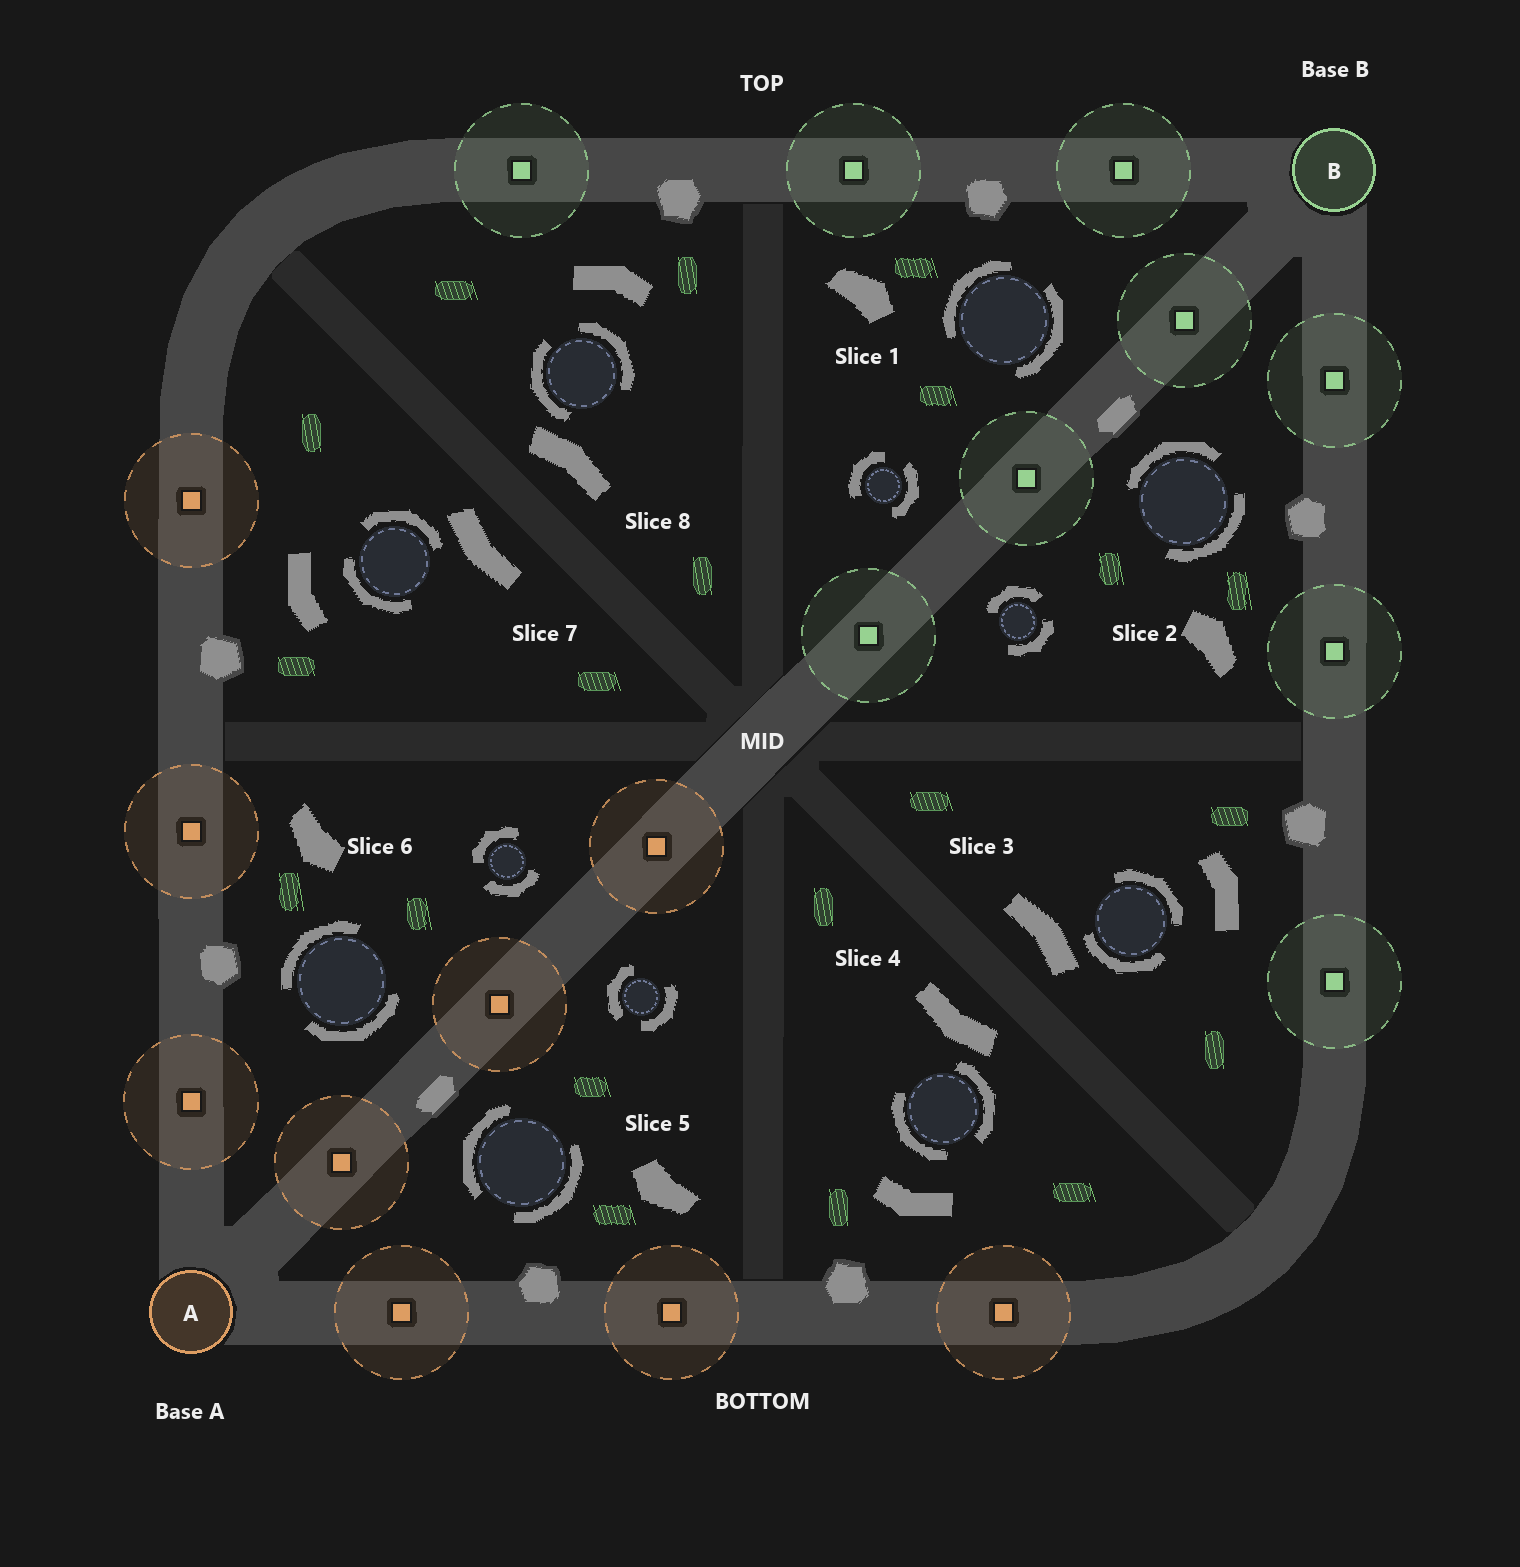
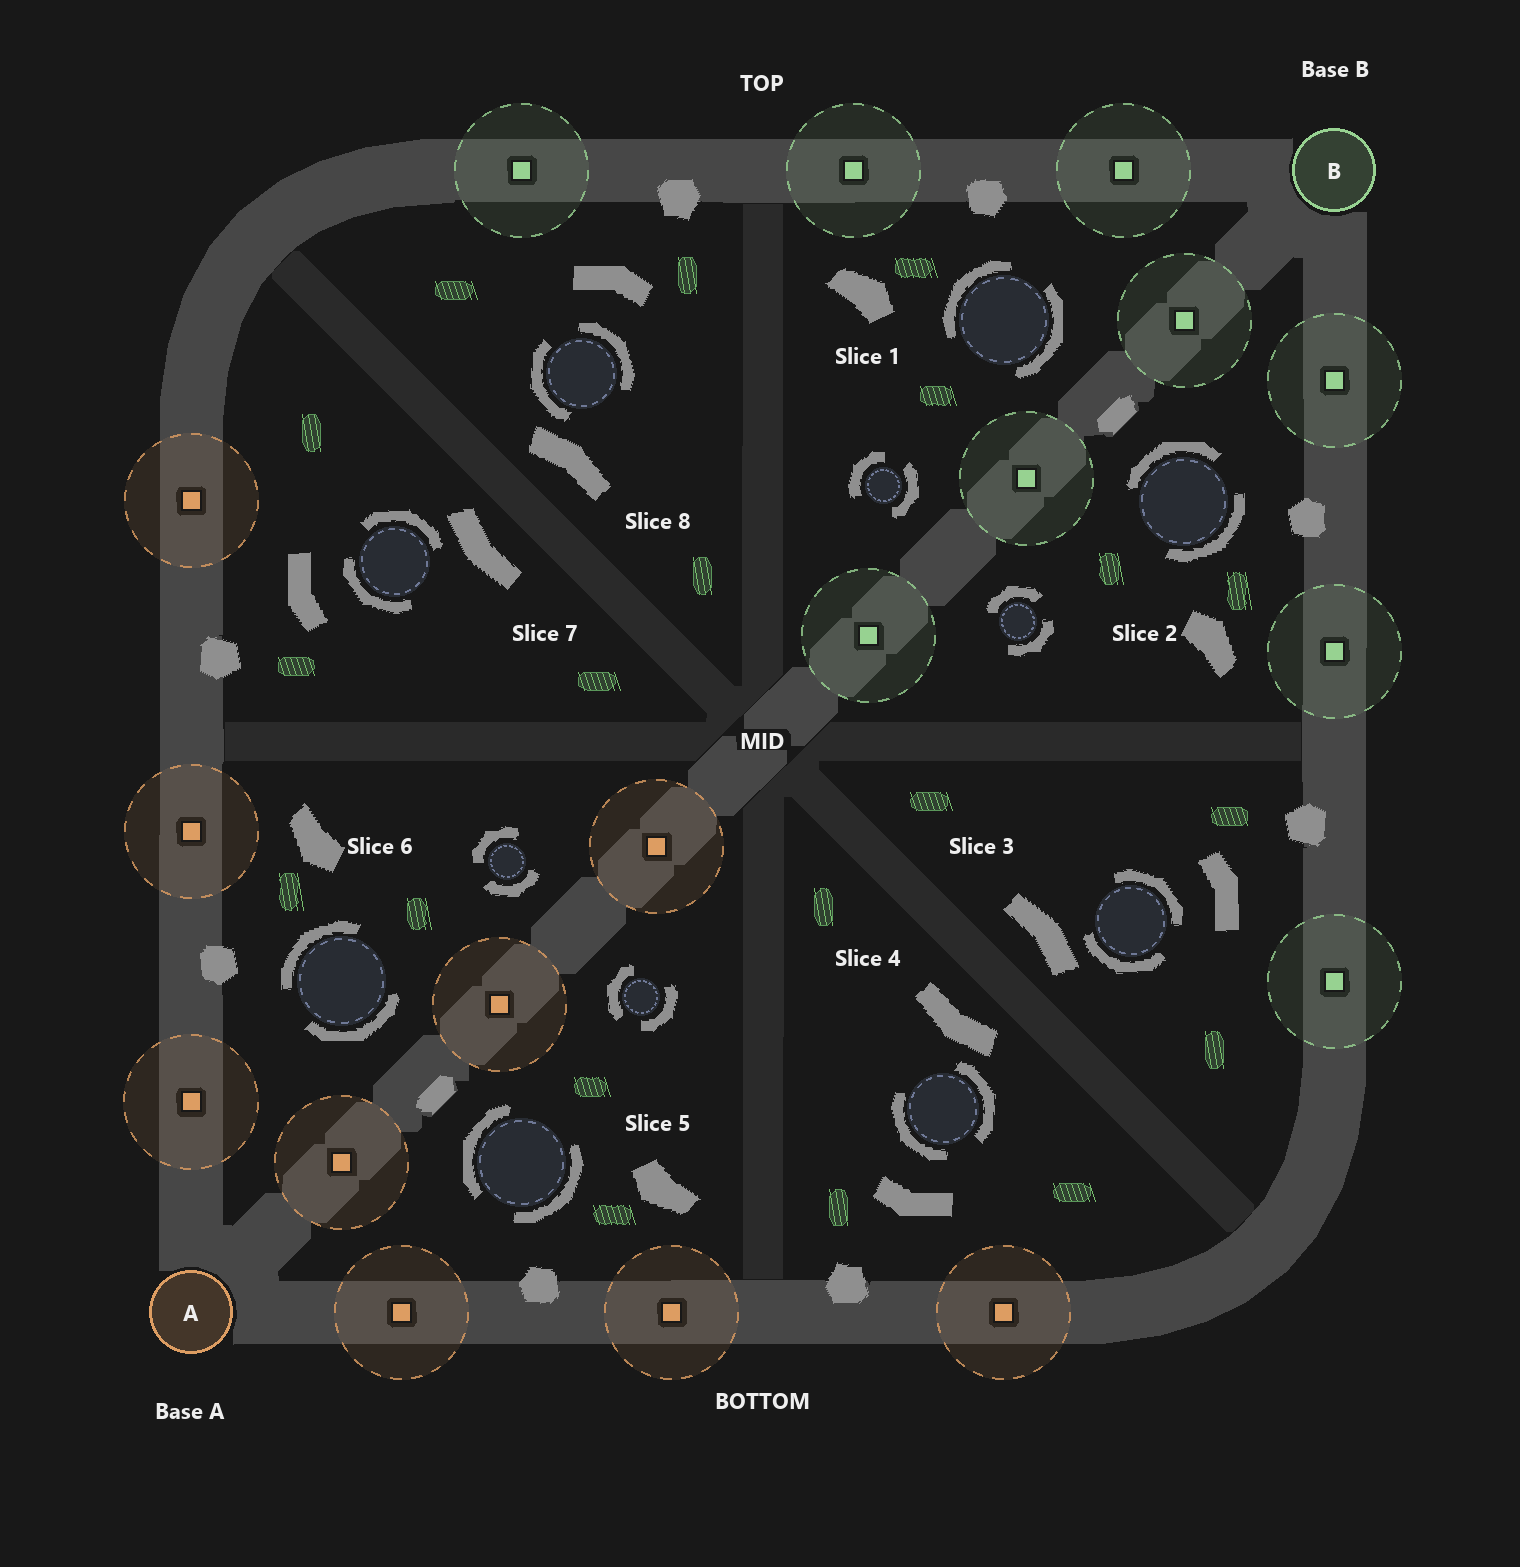
Draft A: clean lane edges where the corner rocks were removed
The lane mask picked up the anti-aliased rims of every wall, which both
polluted the band fit and let rock outlines leak into the road. Open the
mask so only real roads survive, then restore a removed rock's footprint
only where it falls inside a strip fitted to the local lane band.

diff --git a/docs/drafts/extract.py b/docs/drafts/extract.py
@@ -97,13 +97,39 @@ bases = {'A': base((68, 54, 41), (190, 1312)), 'B': base((52, 65, 51), (1335, 17
 # lanes and connections: mid-gray bands (also where they pass through range tints)
 lane_mask = gray & (v >= 55) & (v <= 80)
 lane_mask |= (abs(r - 63) <= 6) & (abs(g - 60) <= 6) & (abs(b - 58) <= 6)
-lane_mask = cv2.morphologyEx(lane_mask.astype(np.uint8), cv2.MORPH_CLOSE, np.ones((9, 9), np.uint8)) > 0
+# every wall and camp has a thin anti-aliased rim in this same gray; open the
+# mask so only real roads (40+ px wide) survive, then close small gaps
+lane_mask = cv2.morphologyEx(lane_mask.astype(np.uint8), cv2.MORPH_OPEN, np.ones((15, 15), np.uint8))
+lane_mask = cv2.morphologyEx(lane_mask, cv2.MORPH_CLOSE, np.ones((9, 9), np.uint8)) > 0
 near_lane = cv2.dilate(lane_mask.astype(np.uint8), np.ones((41, 41), np.uint8)) > 0
-loose = np.zeros((H, W), np.uint8)
+# where a loose rock sat on a lane it left a hole or a notch. Heal the lane
+# there by closing the band across the gap, and only there, so the rock's own
+# outline never becomes part of the road
+# Fit the local band (a straight strip) from the lane pixels around the rock,
+# then restore only the footprint pixels that fall inside that strip.
 for w in walls:
-    if not w['nearCamp']: cv2.fillPoly(loose, [np.array(w['poly'], dtype=np.int32)], 1)
-loose = cv2.dilate(loose, np.ones((9, 9), np.uint8)) > 0
-lane_mask |= loose & near_lane
+    if w['nearCamp']: continue
+    foot = np.zeros((H, W), np.uint8)
+    cv2.fillPoly(foot, [np.array(w['poly'], dtype=np.int32)], 1)
+    foot = cv2.dilate(foot, np.ones((7, 7), np.uint8)) > 0
+    # only rocks that actually sit on the road: a real share of the footprint
+    # must border lane pixels, not just brush past the verge
+    if (foot & near_lane).sum() < 0.35 * foot.sum(): continue
+    cx, cy = int(w['cx']), int(w['cy'])
+    y0, y1, x0, x1 = max(0, cy - 120), min(H, cy + 120), max(0, cx - 120), min(W, cx + 120)
+    win = lane_mask[y0:y1, x0:x1] & ~foot[y0:y1, x0:x1]
+    ys, xs = np.nonzero(win)
+    if len(xs) < 200: continue
+    pts = np.stack([xs + x0, ys + y0], 1).astype(float)
+    mean = pts.mean(0)
+    _, _, vt = np.linalg.svd(pts - mean, full_matrices=False)
+    normal = vt[1]
+    proj = (pts - mean) @ normal
+    lo, hi = np.percentile(proj, 1), np.percentile(proj, 99)
+    fy, fx = np.nonzero(foot)
+    fp = (np.stack([fx, fy], 1) - mean) @ normal
+    inside = (fp >= lo) & (fp <= hi)
+    lane_mask[fy[inside], fx[inside]] = True
 lanes = regions(lane_mask, 3000)
 conn_mask = (abs(r - g) <= 6) & (abs(g - b) <= 6) & (v >= 36) & (v <= 50)
 # open first: the anti-aliased rim of every lane is this gray too, and as a
